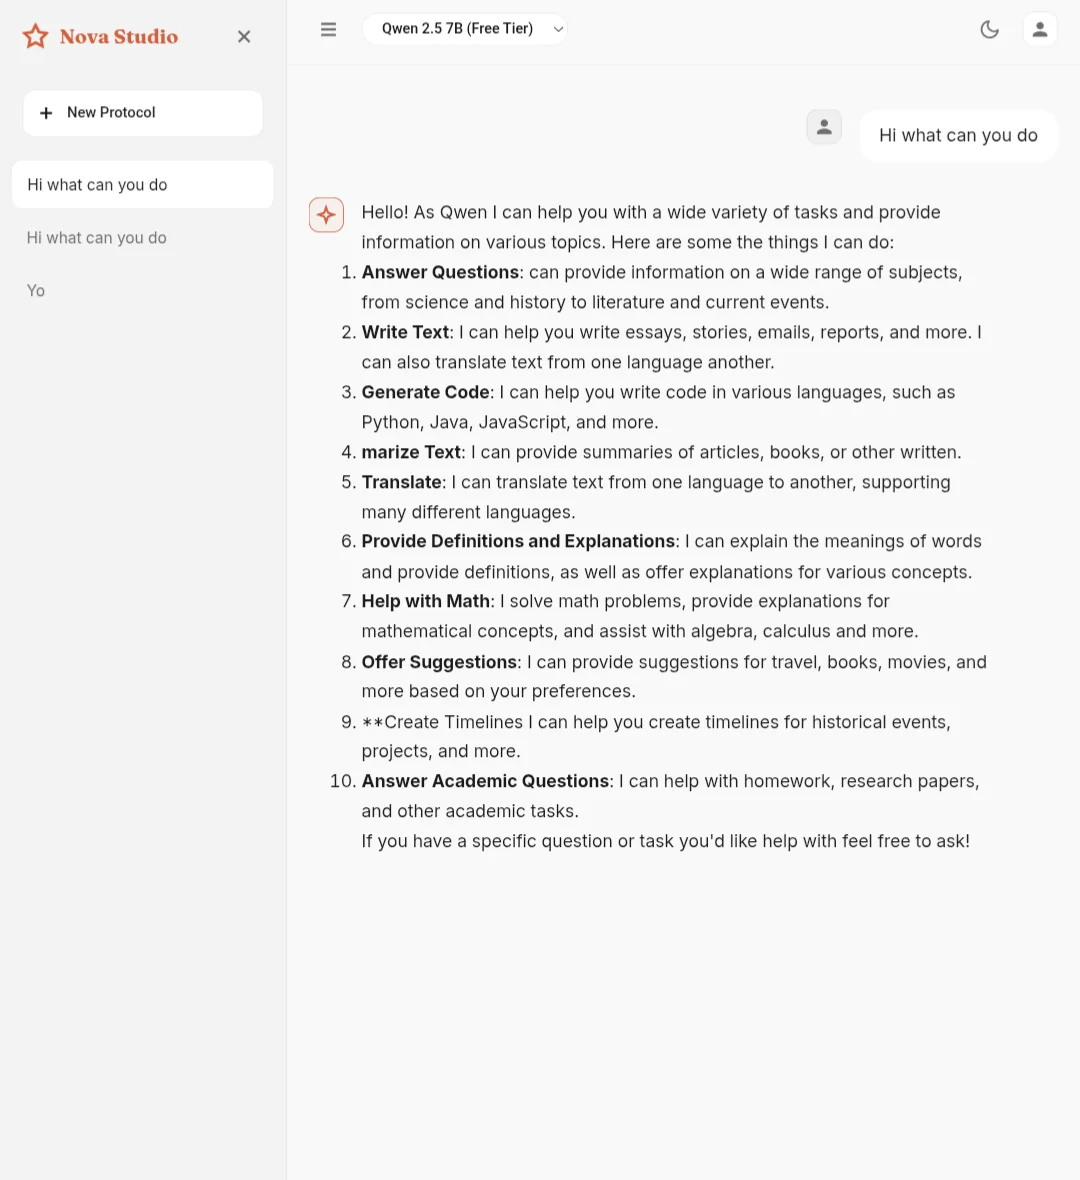
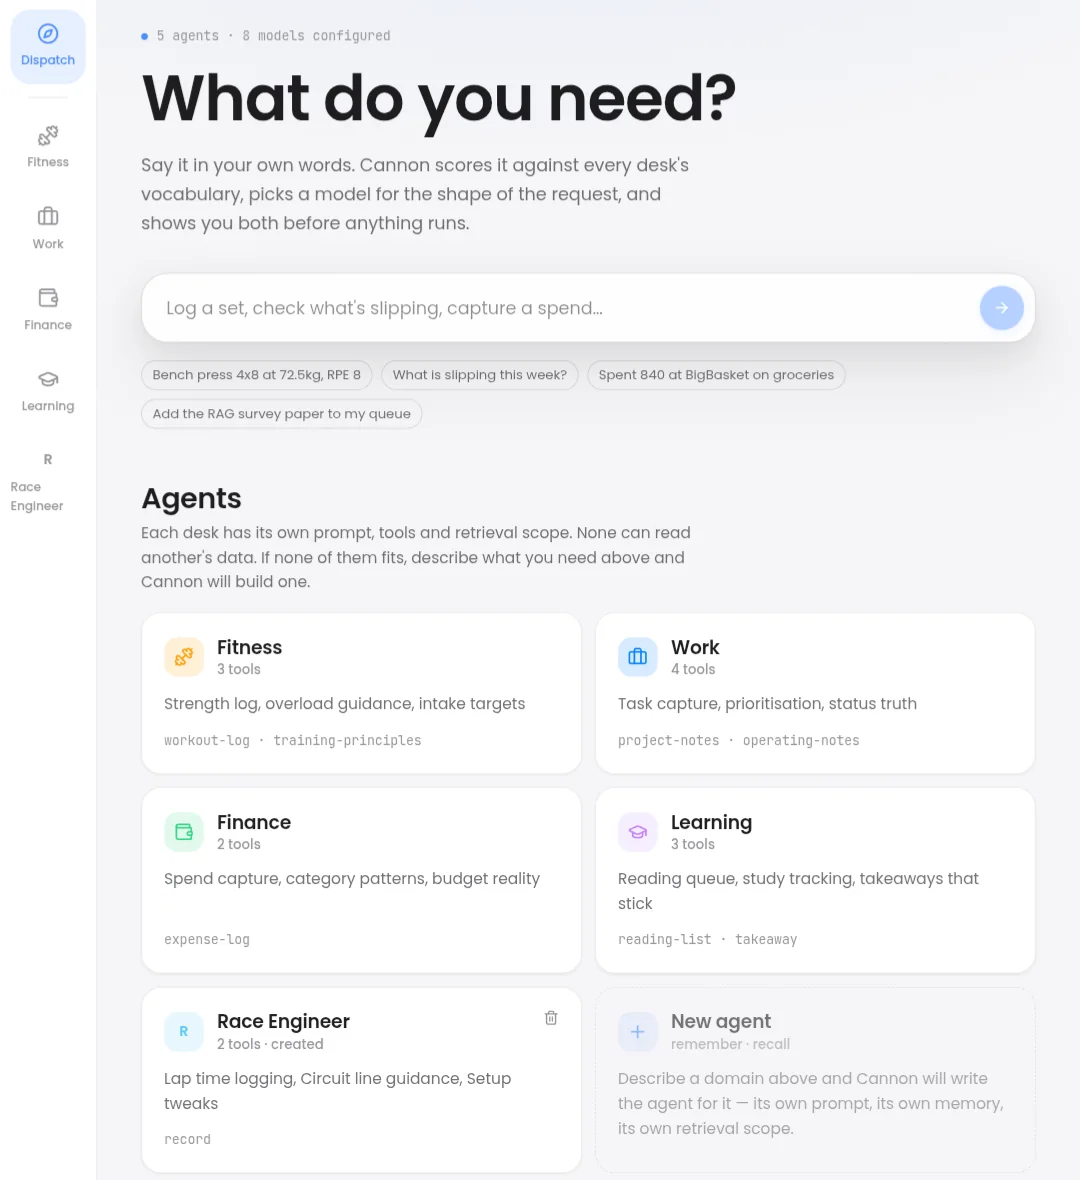
Fix swapped Cannon/Nova screenshots and stop upscaling them
Two defects, both mine.

The Cannon and Nova AI images were the wrong way round. I identified which
capture was which by sampling background colours instead of opening the
files — the heuristic put Nova's white chat UI and Cannon's grey dispatch
view in each other's slots. Corrected by actually looking at each one.
Cannon's crop now runs to the full agent grid including Race Engineer and the
build-your-own card, which is the isolation claim the prose makes.

The presentation was wrong on both breakpoints. The figure filled the 1238px
content column from a 1080px source, so every screenshot was upscaled 1.15x
and read as soft, and a tall capture ran past the viewport. Capping the
figure at 720px keeps it below the capture width, so it is always downscaled
and always sharp. A brief attempt at a horizontal scroller for phones was
worse — it made the image swallow the screen — so mobile gets a proportioned
card and the caption's "Open full size" link is how you read the detail.

Cannon's alt text also described the provider fallback chain, which sits
below the crop. It now describes what is actually in frame.

Verified across four case studies at 390px and 1440px: never upscaled, CLS 0
everywhere, no horizontal page overflow, 12 routes clean, 0 CSP violations.

diff --git a/src/pages/CaseStudy.tsx b/src/pages/CaseStudy.tsx
@@ -119,7 +119,13 @@ export default function CaseStudy() {
       {study.shot && (
         <section className="shell pt-12 md:pt-16">
           <Reveal>
-            <figure className="max-w-3xl">
+            {/* Capped at 720px — comfortably under the 1080px capture width, so
+                the image is always downscaled and never blown up past its own
+                resolution. Letting it fill the 1238px content column upscaled
+                it 1.15x, which read as soft, and made a tall capture swallow
+                the viewport. Small on a phone by necessity: these are desktop
+                interfaces, so the caption link is how you actually read one. */}
+            <figure className="max-w-[720px]">
               <div className="elev overflow-hidden rounded-[var(--radius-lg)] border border-line bg-surface/50">
                 <img
                   src={study.shot.src}
@@ -131,9 +137,17 @@ export default function CaseStudy() {
                   className="block h-auto w-full"
                 />
               </div>
-              <figcaption className="mt-3 font-mono text-[12px] text-faint">
-                {study.title}, running.
-              </figcaption>
+              <figcaption className="mt-3 flex flex-wrap items-center gap-x-2 font-mono text-[12px] text-faint">
+                <span>{study.title}, running.</span>
+                <a
+                  href={study.shot.src}
+                  target="_blank"
+                  rel="noreferrer noopener"
+                  className="underline decoration-line underline-offset-4 transition-colors hover:text-dim"
+                >
+                  Open full size
+                </a>
+                              </figcaption>
             </figure>
           </Reveal>
         </section>

diff --git a/src/data/caseStudies.ts b/src/data/caseStudies.ts
@@ -709,7 +709,7 @@ const cannon: CaseStudy = {
     src: "/shots/cannon.webp",
     width: 1080,
     height: 1180,
-    alt: "Cannon's dispatch view: five domain agents (Fitness, Work, Finance, Learning, Race Engineer) each listing its own tools and retrieval scope, above the provider fallback chain across Groq and Google models.",
+    alt: "Cannon's dispatch view: a sidebar of domain desks (Dispatch, Fitness, Work, Finance, Learning, Race Engineer) beside an agent grid where each desk lists its own tool count and retrieval scope, plus a card inviting a new agent to be described and built.",
   },
   links: [
     { label: "Live app", href: "https://cannon-multi-agents.vercel.app" },
